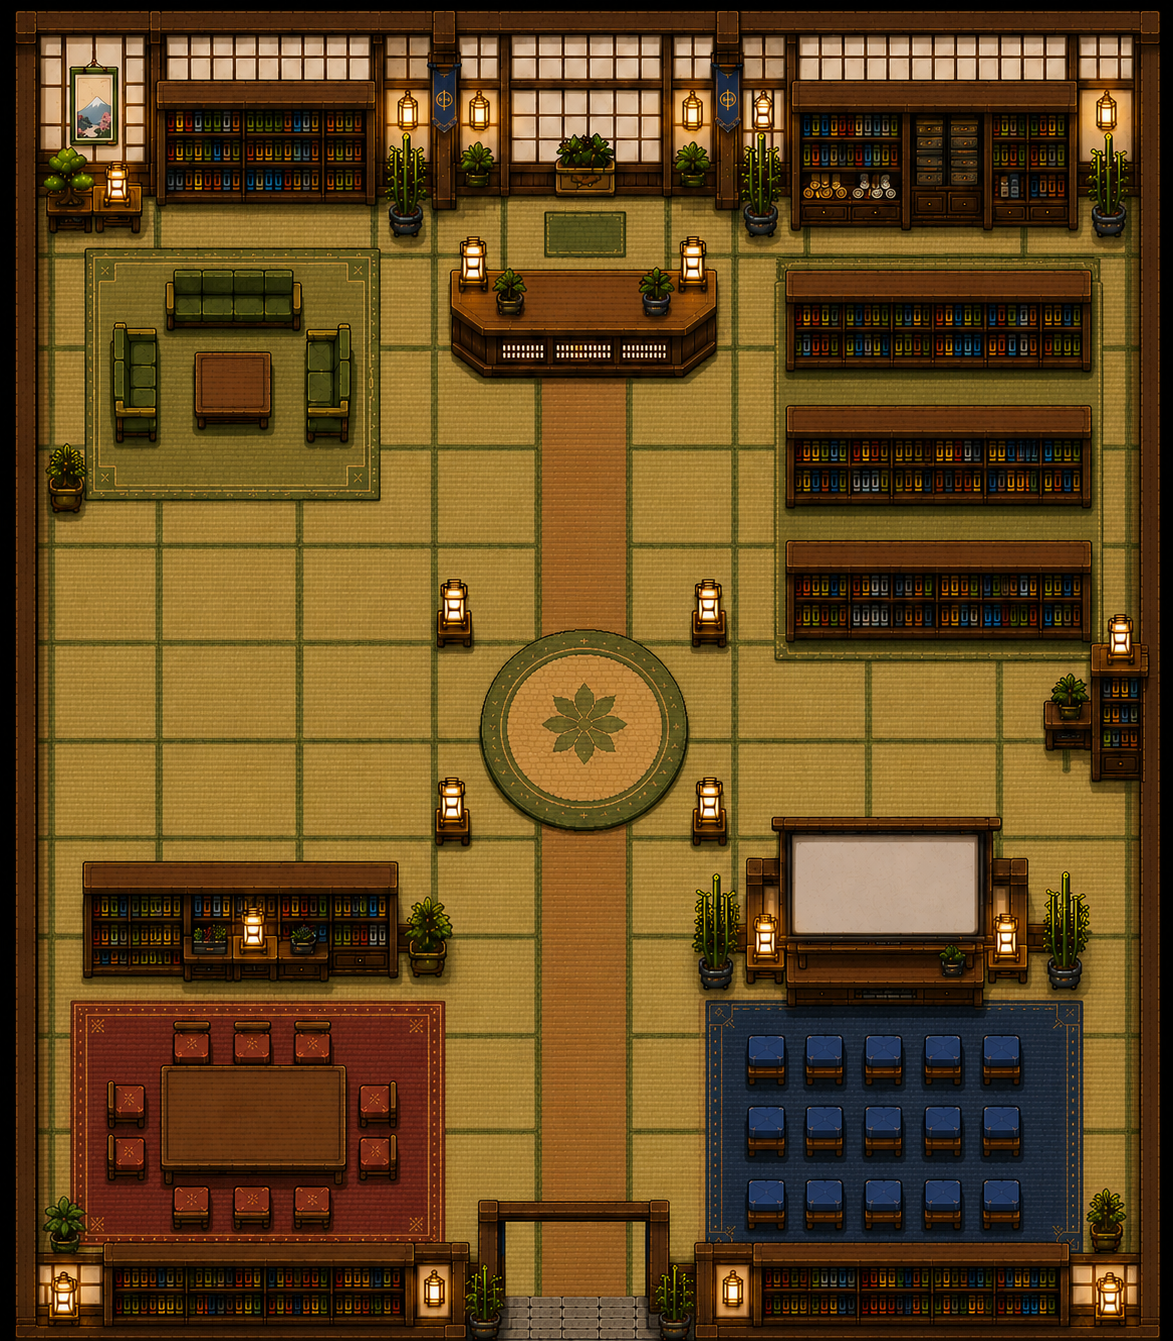
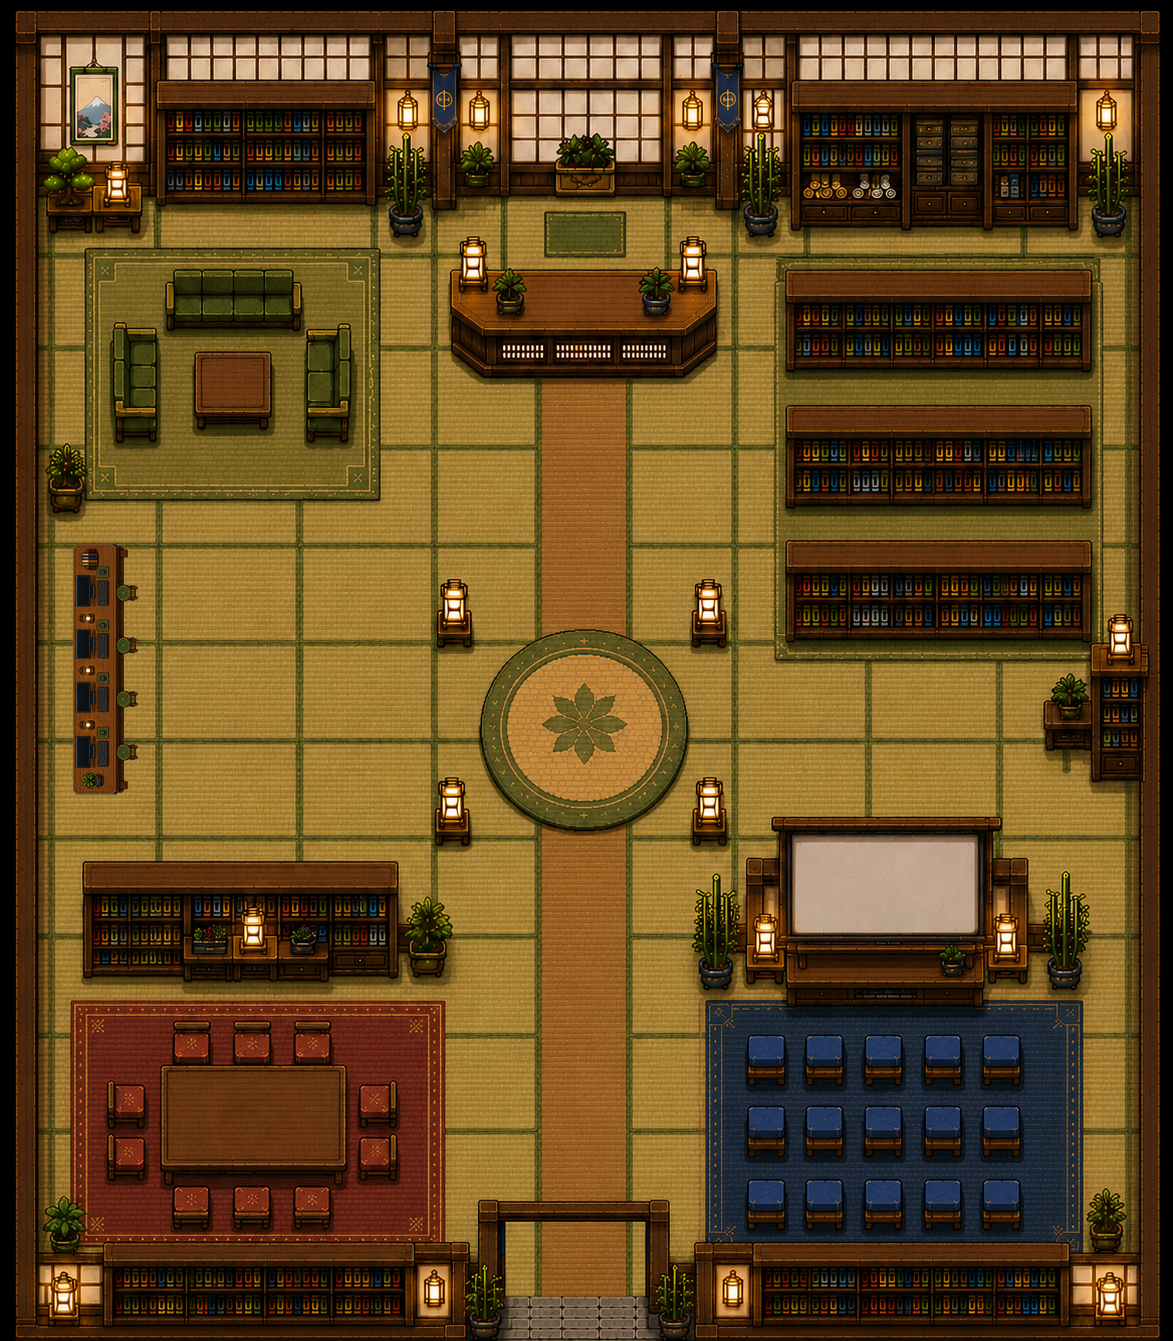
Add left laptop desk to library

Changed region(s): [[0.0614, 0.3975, 0.1228, 0.6115]]

diff --git a/app/src/features/campus-2d/manifest.js b/app/src/features/campus-2d/manifest.js
@@ -456,7 +456,8 @@
         rect("library-blocked-41", 698, 920, 33, 65),
         rect("library-blocked-42", 1049, 920, 33, 67),
         rect("library-blocked-43", 696, 926, 386, 24),
-        rect("library-blocked-44", 382, 922, 69, 21)
+        rect("library-blocked-44", 382, 922, 69, 21),
+        rect("library-left-laptops", 39, 544, 99, 256)
       ],
       portals: [
         portal("library-to-lobby", "lobby", "library", 505, 1290, 149, 51)
